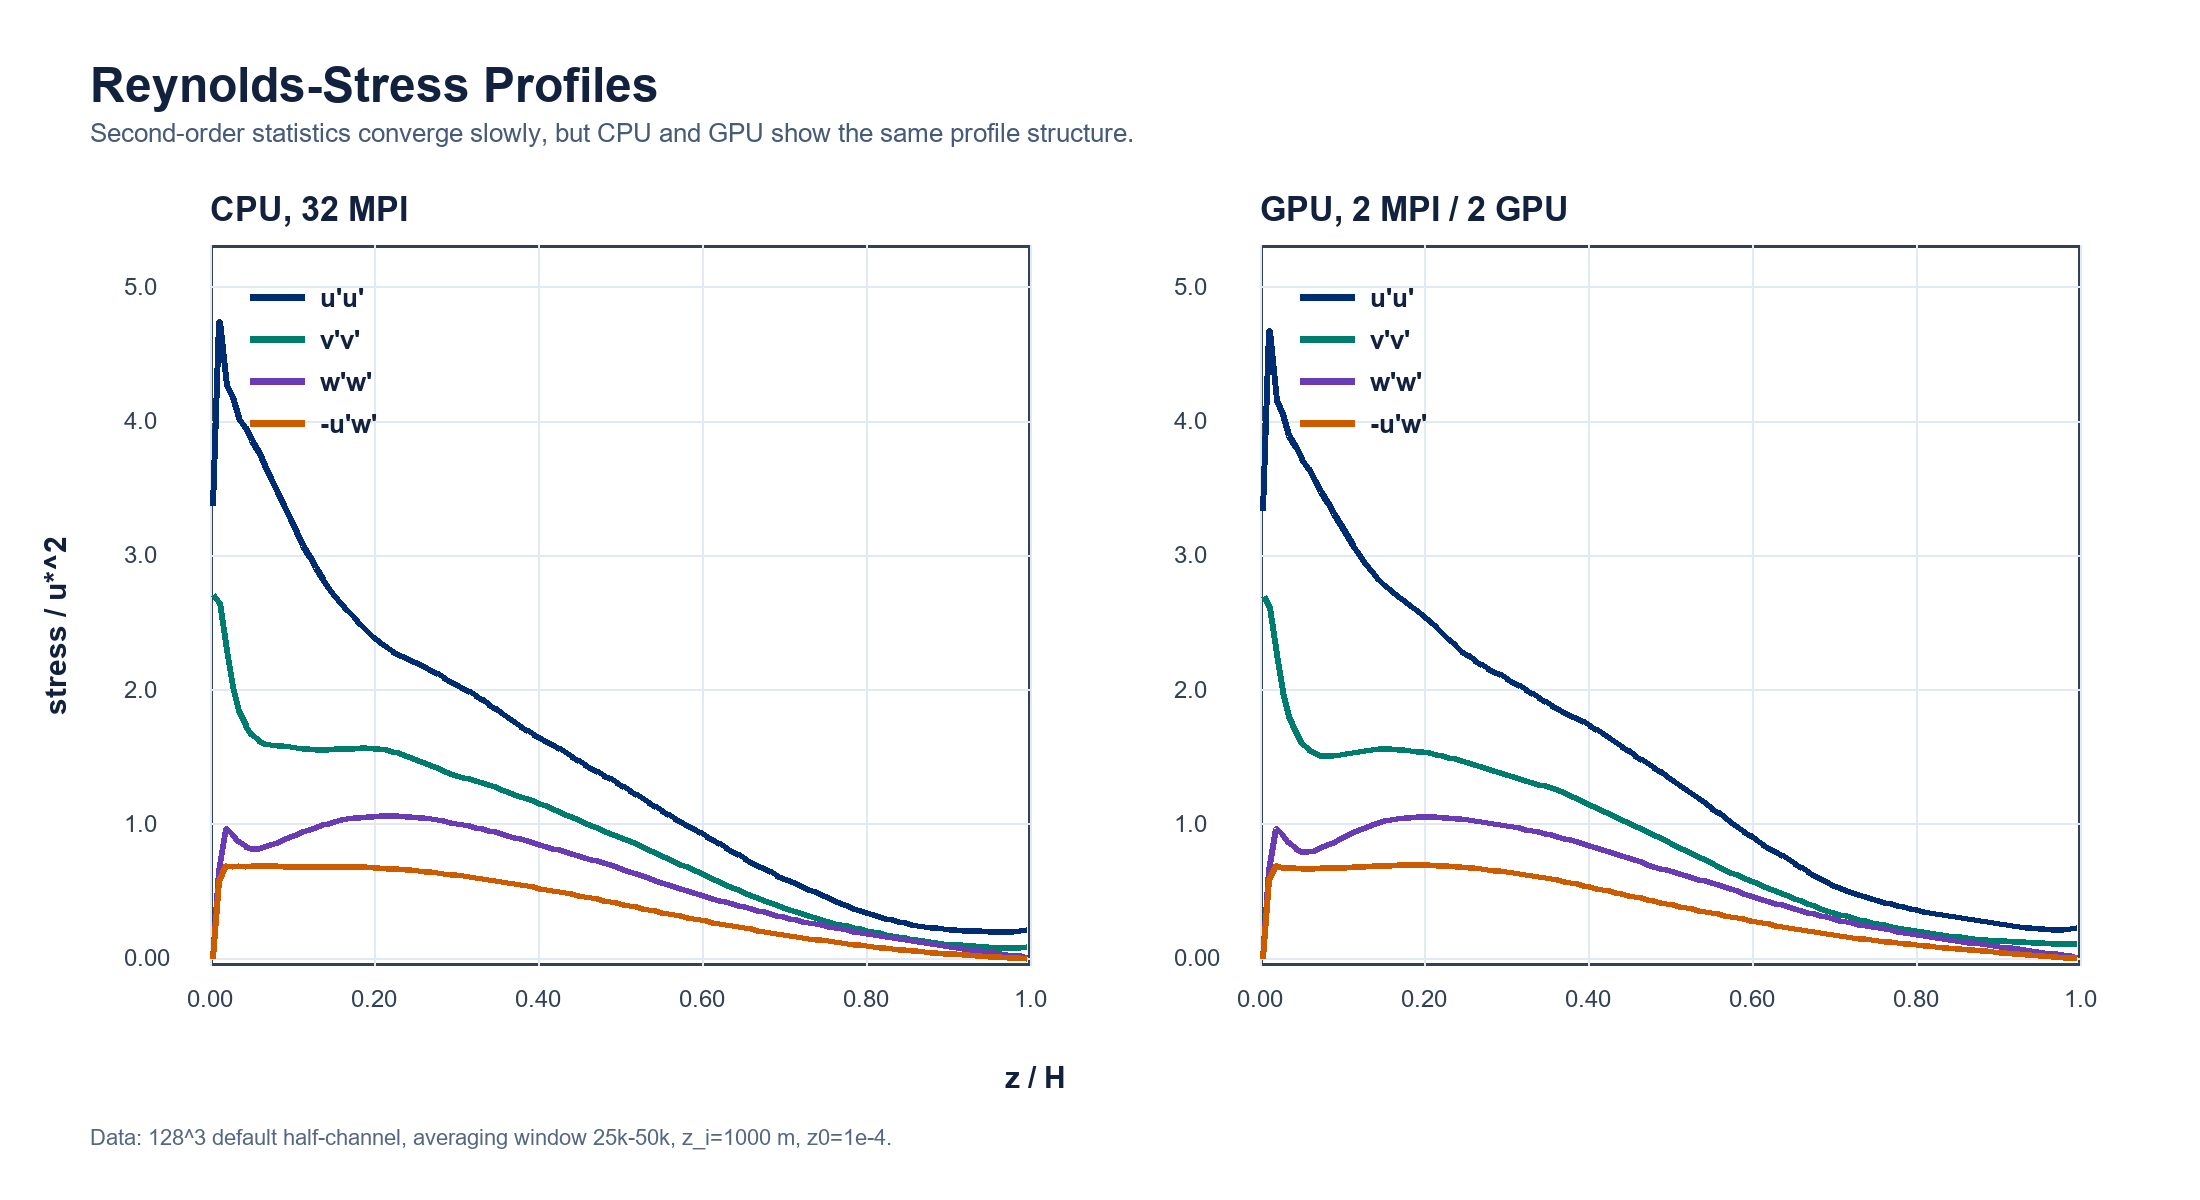
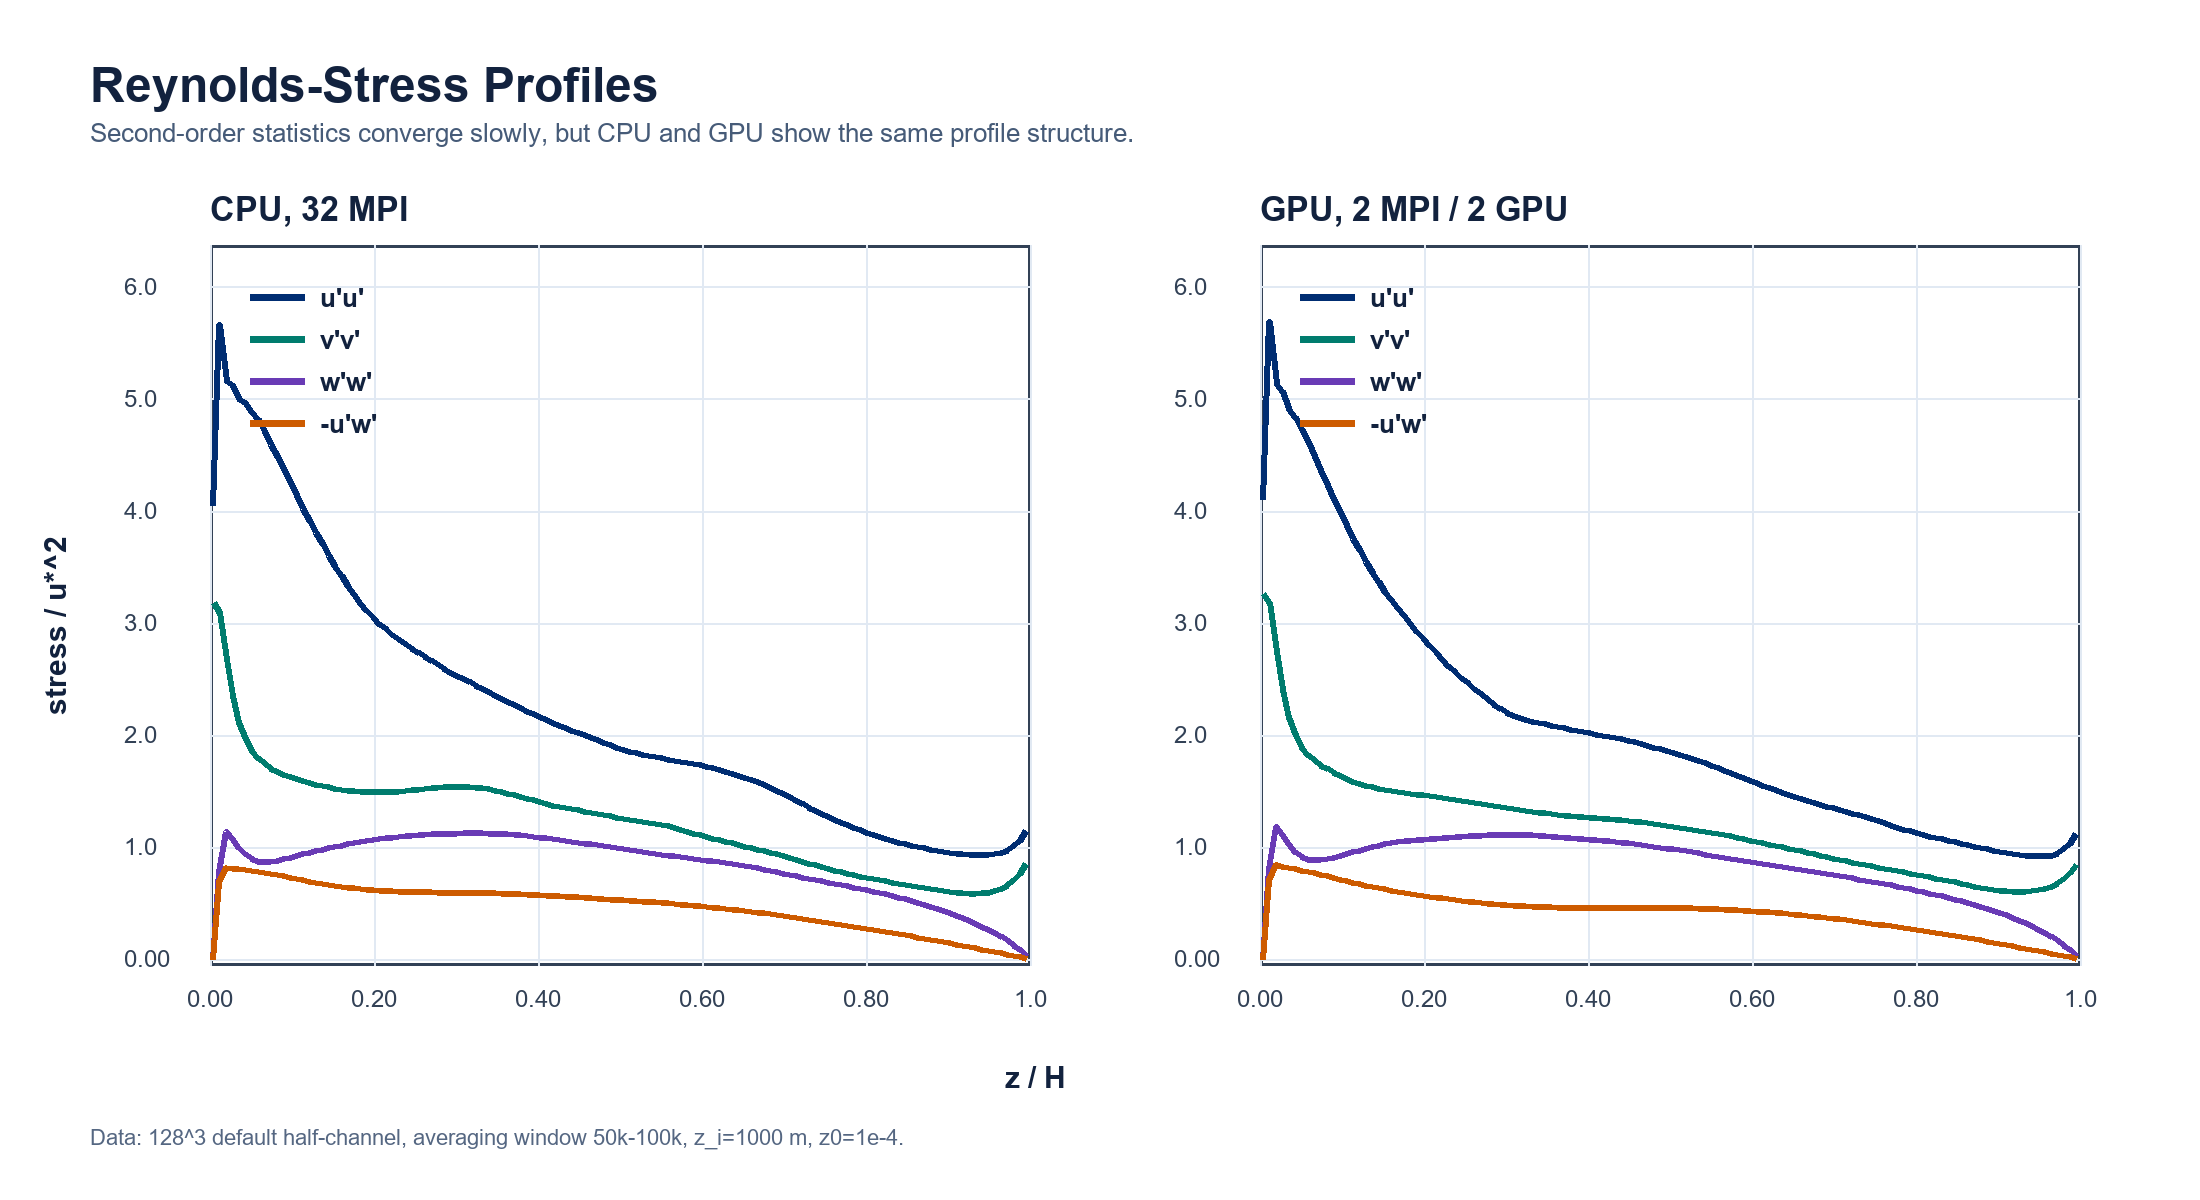
Update default channel validation to 100k

diff --git a/docs/gpu/file-audit.md b/docs/gpu/file-audit.md
@@ -36,6 +36,10 @@ This page is a release-gate inventory for the GPU branch. It lists every top-lev
 - `LESGO_CPU_REF_TIME_FORCING`
 - `LESGO_CPU_REF_TIME_TOTAL`
 
+### Default Half-Channel SGS Audit Note
+
+The latest `128^3` half-channel validation uses `sgs_model=5`, so it exercises the Lagrangian scale-dependent SGS path rather than only the short actuator-turbine benchmark path. The relevant runtime files are `sgs_stag_util.f90`, `scaledep_dynamic.f90`, `interpolag_Sdep.f90`, and `lagrange_Sdep.f90`; these cover the `calc_Sij`/Nu_t/tau construction plus the `F_NN`, `F_QN`, `F_MM`, and `F_LM` update work after model initialization.
+
 ## Audit Matrix
 
 | File | Area | Role | Relevance | CMake/Option | GPU Status | Procedures | Switches | Loop Markers | GPU/MPI Markers | Developer Note |
@@ -67,11 +71,11 @@ This page is a release-gate inventory for the GPU branch. It lists every top-lev
 | `initial.f90` | Initialization | Initial condition setup and device state | Initialization | USE_SCALARS, USE_TURBINES | GPU-enabled | `initial`, `initial_cuda_sync`, `initial_cuda_touch_velocity`, `ic_uniform`, `check_for_interp`, `ic_file`, +3 more | - | 27 | CUF/global=2; CUDA/device=24; MPI=10 | Runtime loops have GPU coverage; preserve device-resident data flow. |
 | `initialize.f90` | Initialization | Startup allocation and setup | Initialization | USE_ATM, USE_CPS, USE_HIT, USE_LVLSET, USE_SCALARS, USE_TURBINES | Review if runtime-active | `initialize` | - | 0 | CUF/global=0; CUDA/device=0; MPI=5 | Audit before using in a new active configuration. |
 | `input_util.f90` | Configuration | Input parsing helpers | I/O/setup | USE_HIT, USE_SCALARS, USE_TURBINES | CPU acceptable: setup/I/O | `input_util`, `procedure`, `read_input_conf`, `domain_block`, `model_block`, `coriolis_block`, +10 more | - | 13 | CUF/global=0; CUDA/device=0; MPI=0 | CPU is acceptable unless this path becomes repeated inside the timestep. |
-| `interpolag_Sdep.f90` | SGS | Lagrangian scale-dependent interpolation | Runtime | default/core | GPU-enabled | `interpolag_Sdep`, `interpolag_sdep_cuda_sync` | - | 17 | CUF/global=2; CUDA/device=22; MPI=17 | Runtime loops have GPU coverage; preserve device-resident data flow. |
+| `interpolag_Sdep.f90` | SGS | Lagrangian scale-dependent interpolation | Runtime | default/core | GPU-enabled | `interpolag_Sdep`, `interpolag_sdep_cuda_sync` | - | 17 | CUF/global=2; CUDA/device=22; MPI=17 | Exercised by the default half-channel `sgs_model=5` validation; preserve device-resident Lagrangian data flow. |
 | `interpolag_Ssim.f90` | SGS | Lagrangian scale-sim interpolation | Runtime | default/core | GPU-enabled | `interpolag_Ssim`, `interpolag_ssim_cuda_sync` | - | 11 | CUF/global=2; CUDA/device=22; MPI=13 | Runtime loops have GPU coverage; preserve device-resident data flow. |
 | `io.f90` | Output | Output and optional CGNS paths | I/O | USE_TURBINES | GPU-enabled | `io`, `openfiles`, `energy`, `write_tau_wall_bot`, `write_tau_wall_top`, `write_parallel_cgns`, +7 more | - | 40 | CUF/global=1; CUDA/device=18; MPI=33 | Runtime loops have GPU coverage; preserve device-resident data flow. |
 | `iwmles.f90` | Wall model | Integral wall model support | Runtime | default/core | GPU-enabled | `iwmles`, `iwm_cuda_sync`, `iwm_wallstress`, `iwm_init`, `iwm_finalize`, `iwm_calc_lhs`, +5 more | - | 28 | CUF/global=5; CUDA/device=38; MPI=0 | Runtime loops have GPU coverage; preserve device-resident data flow. |
-| `lagrange_Sdep.f90` | SGS | Lagrangian scale-dependent averaging | Runtime | default/core | GPU-enabled | `lagrange_Sdep`, `lagrange_sdep_cuda_sync` | - | 23 | CUF/global=10; CUDA/device=59; MPI=19 | Runtime loops have GPU coverage; preserve device-resident data flow. |
+| `lagrange_Sdep.f90` | SGS | Lagrangian scale-dependent averaging | Runtime | default/core | GPU-enabled | `lagrange_Sdep`, `lagrange_sdep_cuda_sync` | - | 23 | CUF/global=10; CUDA/device=59; MPI=19 | Covers `F_NN`, `F_QN`, `F_MM`, and `F_LM` update work in the default half-channel validation. |
 | `lagrange_Ssim.f90` | SGS | Lagrangian scale-sim averaging | Runtime | default/core | GPU-enabled | `lagrange_Ssim`, `lagrange_ssim_cuda_sync` | - | 21 | CUF/global=9; CUDA/device=53; MPI=15 | Runtime loops have GPU coverage; preserve device-resident data flow. |
 | `level_set.f90` | Level set | Optional level-set runtime loops | Optional runtime | USE_HIT, USE_LVLSET | GPU-enabled | `level_set`, `level_set_cuda_sync`, `level_set_init`, `level_set_vel_err`, `level_set_Cs_lag_dyn`, `level_set_lag_dyn`, +35 more | - | 106 | CUF/global=8; CUDA/device=34; MPI=165 | Runtime loops have GPU coverage; preserve device-resident data flow. |
 | `level_set_base.f90` | Level set | Level-set shared definitions | Optional setup | USE_LVLSET | GPU-enabled | `level_set_base`, `level_set_base_init` | - | 0 | CUF/global=0; CUDA/device=3; MPI=0 | Runtime loops have GPU coverage; preserve device-resident data flow. |
@@ -88,7 +92,7 @@ This page is a release-gate inventory for the GPU branch. It lists every top-lev
 | `scalars.f90` | Scalars | Optional scalar transport GPU loops | Optional runtime | USE_SCALARS | GPU-enabled | `scalars`, `scalars_cuda_sync`, `scalars_copy_rhs_gpu`, `scalars_advective_gpu`, `scalars_flux_gpu`, `scalars_rhs_theta_gpu`, +12 more | - | 65 | CUF/global=20; CUDA/device=58; MPI=17 | Runtime loops have GPU coverage; preserve device-resident data flow. |
 | `scaledep_dynamic.f90` | SGS | Scale-dependent dynamic SGS model support | Runtime | default/core | GPU-enabled | `scaledep_dynamic`, `scaledep_dynamic_cuda_sync` | - | 17 | CUF/global=8; CUDA/device=31; MPI=0 | Runtime loops have GPU coverage; preserve device-resident data flow. |
 | `sgs_param.f90` | SGS | SGS parameters | Setup/runtime support | default/core | GPU-enabled | `sgs_param`, `sgs_param_init` | - | 0 | CUF/global=0; CUDA/device=7; MPI=0 | Runtime loops have GPU coverage; preserve device-resident data flow. |
-| `sgs_stag_util.f90` | SGS | GPU SGS model/stress construction and halos | Runtime hot path | default/core | GPU-enabled | `sgs_stag_util`, `sgs_cuda_sync`, `sgs_cuda_barrier`, `sgs_event_record`, `sgs_event_elapsed_seconds`, `sgs_diag_time`, +26 more | `CUDA_VISIBLE_DEVICES`, `LESGO_SGS_CALCSIJ_EXPLICIT`, `LESGO_SGS_HALO_COMBINED`, `LESGO_SGS_STAGE_TIMING`, `LESGO_SGS_STRICT_SYNC`, `MPICH_GPU_SUPPORT_ENABLED` | 122 | CUF/global=33; CUDA/device=275; MPI=205 | Do not change SGS formulas while editing timing or halo paths; validate tau/wall-stress behavior. |
+| `sgs_stag_util.f90` | SGS | GPU SGS model/stress construction and halos | Runtime hot path | default/core | GPU-enabled | `sgs_stag_util`, `sgs_cuda_sync`, `sgs_cuda_barrier`, `sgs_event_record`, `sgs_event_elapsed_seconds`, `sgs_diag_time`, +26 more | `CUDA_VISIBLE_DEVICES`, `LESGO_SGS_CALCSIJ_EXPLICIT`, `LESGO_SGS_HALO_COMBINED`, `LESGO_SGS_STAGE_TIMING`, `LESGO_SGS_STRICT_SYNC`, `MPICH_GPU_SUPPORT_ENABLED` | 122 | CUF/global=33; CUDA/device=275; MPI=205 | Do not change SGS formulas while editing timing or halo paths; validate wall stress and the default half-channel SGS statistics. |
 | `shifted_inflow.f90` | Inflow | Shifted inflow support | Runtime | USE_SCALARS | GPU-enabled | `shifted_inflow`, `shifted_inflow_cuda_sync`, `shifted_inflow_init`, `inflow_shifted` | - | 10 | CUF/global=3; CUDA/device=65; MPI=0 | Runtime loops have GPU coverage; preserve device-resident data flow. |
 | `sim_param.f90` | Configuration | Simulation parameters | Setup | default/core | GPU-enabled | `sim_param`, `sim_param_init` | - | 0 | CUF/global=0; CUDA/device=1; MPI=0 | Runtime loops have GPU coverage; preserve device-resident data flow. |
 | `sponge.f90` | Boundary | GPU sponge damping loops | Runtime | default/core | GPU-enabled | `sponge`, `sponge_cuda_sync`, `sponge_init`, `sponge_force` | - | 7 | CUF/global=2; CUDA/device=19; MPI=0 | Runtime loops have GPU coverage; preserve device-resident data flow. |
@@ -732,4 +736,3 @@ This page is a release-gate inventory for the GPU branch. It lists every top-lev
 - Procedures/modules found: `wallstress`, `wallstress_cuda_sync`, `ws_free_lbc`, `ws_free_ubc`, `ws_dns_lbc`, `ws_dns_ubc`, `ws_equilibrium_lbc`, `ws_equilibrium_ubc`
 - Retained switches: -
 - Developer note: Runtime loops have GPU coverage; preserve device-resident data flow.
-

diff --git a/docs/gpu/validation-performance.md b/docs/gpu/validation-performance.md
@@ -16,16 +16,16 @@ This page records the physics validation requested for the standard LESGO half-c
 | Grid | `128 x 128 x 128` | `128 x 128 x 128` |
 | Active physics | Default dynamic/Lagrangian SGS | Default dynamic/Lagrangian SGS |
 | Turbines | Off | Off |
-| Runtime | `50,000` steps | `50,000` steps |
-| Averaging window | `25,000-50,000` | `25,000-50,000` |
+| Runtime | Restarted at `50,000`, continued to `100,000` | Restarted at `50,000`, continued to `100,000` |
+| Averaging window | `50,000-100,000` | `50,000-100,000` |
 | Hardware layout | 32 MPI ranks | 2 MPI ranks / 2 GPUs |
 
 ### Scalar Checks
 
 | Run | Final Divergence | Final KE | Bottom Wall Stress |
 |---|---:|---:|---:|
-| CPU, 32 MPI | `0.2325891E-12` | `0.2335050E+03` | `0.9475399E+00` |
-| GPU, 2 MPI / 2 GPU | `0.3059036E-06` | `0.2330924E+03` | `0.9105967E+00` |
+| CPU, 32 MPI | `0.2276639E-12` | `0.2311216E+03` | `0.1009177E+01` |
+| GPU, 2 MPI / 2 GPU | `0.3354102E-06` | `0.2286064E+03` | `0.9768977E+00` |
 
 These values are close enough for a turbulent long-run validation. The instantaneous trajectory is expected to decorrelate because small floating-point differences grow chaotically in turbulence.
 
@@ -39,12 +39,12 @@ The mean velocity profile is compared against the rough-wall log-law trend. CPU 
 
 | Metric | Value |
 |---|---:|
-| Mean velocity L1 difference | `4.93354E-02` |
-| Mean velocity relative L2 difference | `2.71536E-03` |
+| Mean velocity L1 difference | `2.43078E-01` |
+| Mean velocity relative L2 difference | `1.19896E-02` |
 
 ### Reynolds Stresses
 
-Second-order statistics converge more slowly than the mean profile. A few-percent difference in `u'u'` is therefore normal for this averaging window, provided that the component shapes and near-wall behavior remain consistent.
+Second-order statistics converge more slowly than the mean profile. The CPU and GPU profiles are compared side by side over the `50,000-100,000` window; the component shapes and near-wall behavior remain consistent, while the remaining differences should be treated as finite-time turbulent sampling error rather than pointwise trajectory error.
 
 <div class="lesgo-image-frame">
   <img src="../../assets/default-channel-128-reynolds-stress.png" alt="CPU and GPU Reynolds-stress profiles for the default 128 cubed half-channel case">
@@ -52,14 +52,14 @@ Second-order statistics converge more slowly than the mean profile. A few-percen
 
 | Metric | Value |
 |---|---:|
-| `u'u'` L1 difference | `5.43758E-02` |
-| `u'u'` relative L2 difference | `3.50556E-02` |
-| `-u'w'` L1 difference | `9.21853E-03` |
-| `-u'w'` relative L2 difference | `2.61361E-02` |
+| `u'u'` L1 difference | `1.27736E-01` |
+| `u'u'` relative L2 difference | `6.49681E-02` |
+| `-u'w'` L1 difference | `4.48119E-02` |
+| `-u'w'` relative L2 difference | `1.16428E-01` |
 
 ### Instantaneous Z-Plane And PDF
 
-The mid-plane contours compare the instantaneous `u'` field at `z/H = 0.5` and step `50,000`. These are not expected to match pointwise after a long chaotic turbulent integration. The contours are therefore used only to check that both runs show physically turbulent structures, while the normalized PDF compares the instantaneous fluctuation distribution more directly.
+The mid-plane contours compare the instantaneous `u'` field at `z/H = 0.5` and step `100,000`. These are not expected to match pointwise after a long chaotic turbulent integration. The contours are therefore used only to check that both runs show physically turbulent structures, while the normalized PDF compares the instantaneous fluctuation distribution more directly.
 
 <div class="lesgo-image-frame">
   <img src="../../assets/default-channel-128-zplane-contours.png" alt="CPU and GPU instantaneous z-plane velocity fluctuation contours for the default 128 cubed half-channel case">
@@ -67,18 +67,18 @@ The mid-plane contours compare the instantaneous `u'` field at `z/H = 0.5` and s
 
 | Instantaneous metric | CPU | GPU |
 |---|---:|---:|
-| `u'` RMS on `z/H=0.5` plane | `1.38334` | `1.78827` |
-| Normalized PDF skewness | `-0.341666` | `-0.389028` |
-| Normalized PDF kurtosis | `2.98154` | `2.63843` |
-| Plane file | `vel.z-0.50000.50000.c15.bin` | `vel.z-0.50000.50000.c0.bin` |
+| `u'` RMS on `z/H=0.5` plane | `1.33458` | `1.75819` |
+| Normalized PDF skewness | `-0.119722` | `-0.425260` |
+| Normalized PDF kurtosis | `2.49917` | `2.70626` |
+| Plane file | `vel.z-0.50000.100000.c15.bin` | `vel.z-0.50000.100000.c0.bin` |
 
 | PDF Agreement Metric | Value |
 |---|---:|
-| L1 distance between normalized PDFs | `9.19189E-02` |
+| L1 distance between normalized PDFs | `1.95679E-01` |
 
 ### Interpretation
 
-The GPU result passes the current physical validation gate: the mean profile follows the expected log-law trend, the Reynolds-stress profiles have the correct structure, and the instantaneous mid-plane field shows developed turbulent streaks and patches rather than laminar behavior.
+The GPU result passes the current physical validation gate for this stage: the mean profile follows the expected log-law trend, the Reynolds-stress profiles have the correct structure, and the instantaneous mid-plane field shows developed turbulent streaks and patches rather than laminar behavior. The PDF and stress differences are now documented explicitly because long chaotic runs should be judged statistically, not by pointwise agreement.
 
 ## 480x240x240 ATM Benchmark
 

diff --git a/docs/gpu/modules/sgs.md b/docs/gpu/modules/sgs.md
@@ -21,6 +21,11 @@ The SGS module was one of the largest GPU porting targets because it contains re
 | Tau halo | Combined contiguous device halo path for nproc==2 |
 | dwdz halo | Device-buffer path audited; further micro-variants were not beneficial |
 | Stage timing | Non-strict timing mode avoids charging queued work to the wrong stage |
+| Default half-channel SGS path | `sgs_model=5` validation exercises the Lagrangian scale-dependent path, including the `F_NN`, `F_QN`, `F_MM`, and `F_LM` update work |
+
+## Default Half-Channel Validation Note
+
+The `128^3` default half-channel case uses the Lagrangian scale-dependent SGS model after the dynamic model initializes. For that validation, the GPU path covers the runtime loops in `sgs_stag_util.f90`, `scaledep_dynamic.f90`, `interpolag_Sdep.f90`, and `lagrange_Sdep.f90`. The retained optimized defaults are the explicit `calc_Sij` interior kernel and the combined two-rank tau halo; diagnostic timers remain off unless explicitly enabled.
 
 ## Retained Controls
 
@@ -31,4 +36,4 @@ The SGS module was one of the largest GPU porting targets because it contains re
 | `LESGO_SGS_STAGE_TIMING` | Enable SGS diagnostic timing |
 | `LESGO_SGS_STRICT_SYNC` | Restore strict sync behavior for debugging |
 
-Do not change SGS formulas or array bounds while optimizing communication. For SGS changes, validate divergence, kinetic energy, bottom wall stress, SGS model/stress build timing, divstress timing, and tau halo behavior on 2 MPI / 2 GPU.
+Do not change SGS formulas or array bounds while optimizing communication. For SGS changes, validate divergence, kinetic energy, bottom wall stress, mean velocity, Reynolds stresses, SGS model/stress build timing, divstress timing, and tau halo behavior on 2 MPI / 2 GPU.
